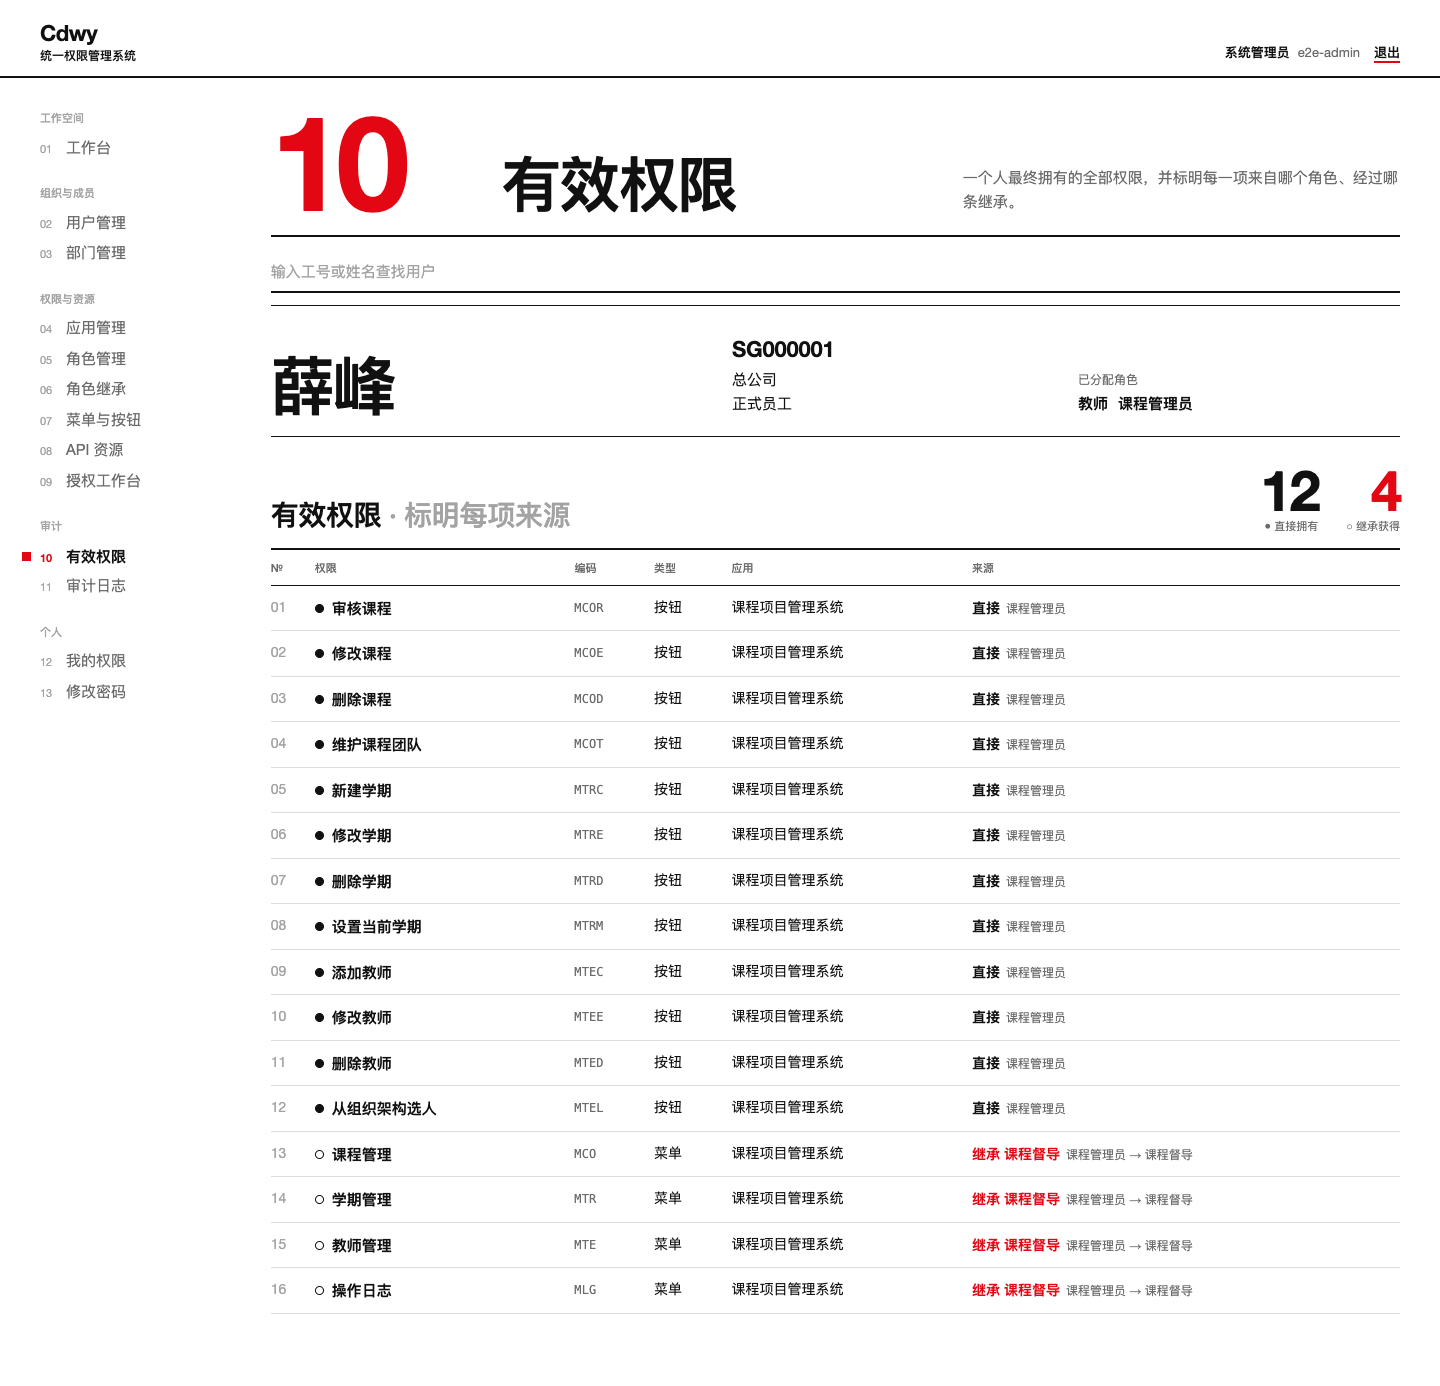
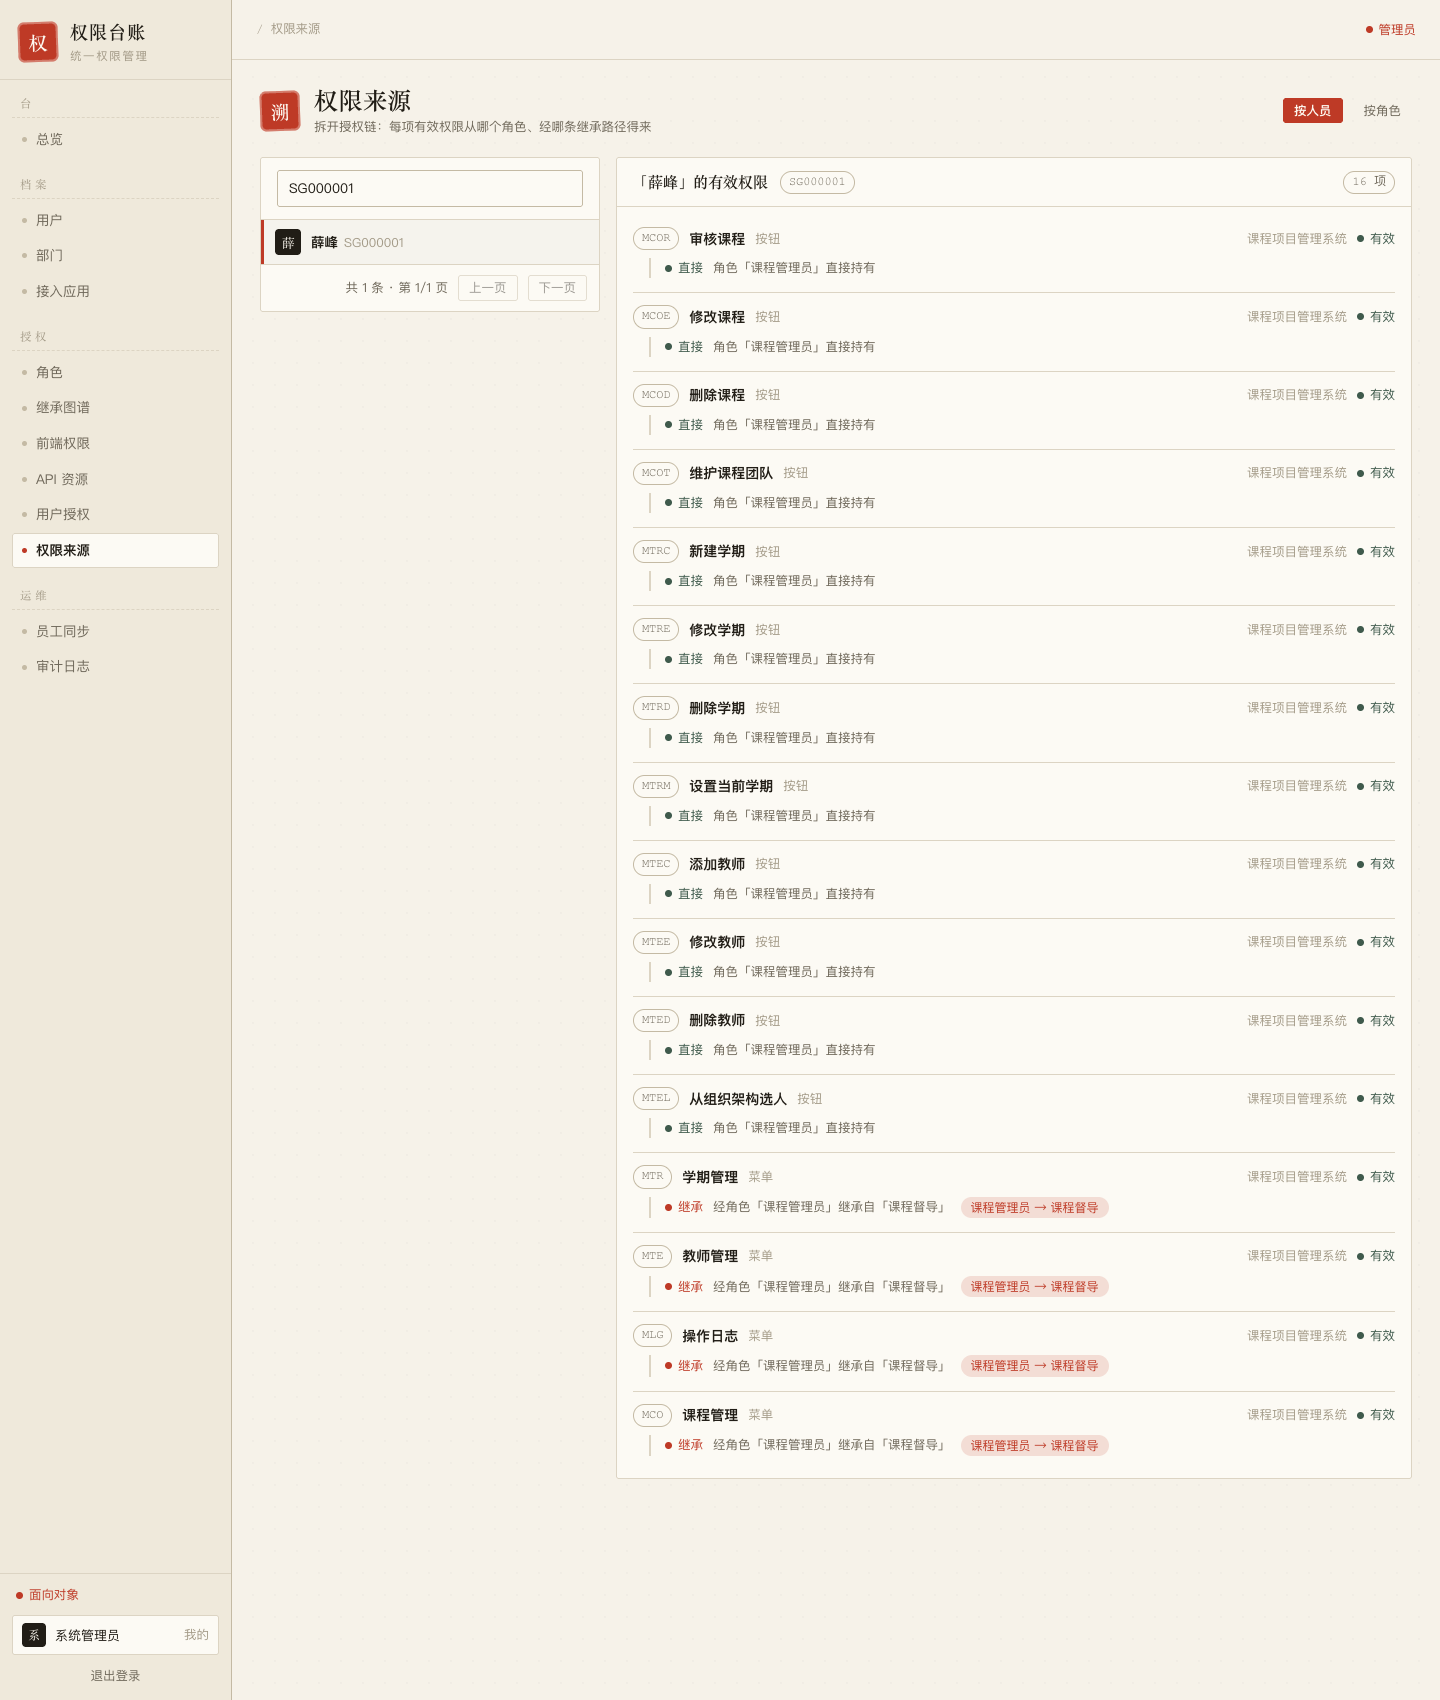
deploy: 权限系统前端镜像发布权限台账，首页进权限台账；文档与本机证据同步
- package-images.sh 依次构建权限台账与原管理控制台，构建上下文带上 static/access-registry
  （同组的 Dockerfile 已经要复制这个目录，原脚本没有打包它，镜像会构建失败）
- Nginx 首页跳到 /access-registry/，原管理控制台仍在 /ui/
- README、详细设计、需求—测试追踪、部署说明按权限台账更新；更正 README 中审计范围的说法
- 本机两种设计路线重跑：课程联调各 45/45，权限台账 8/8、原控制台 5/5 浏览器测试；
  后端 186 个测试通过，覆盖率不变

diff --git a/README.md b/README.md
@@ -14,7 +14,7 @@
 | 检查要求 | 本版落实 |
 |---|---|
 | 两个系统的权限都由权限系统管理 | 实现 Apifox「统一身份鉴权」的 8 个接口（`/api/apps/{应用编码}/auth/login`、`logout`、`me`、`permissions/{permission}`、`api-permissions/{operationId}`、`departments`、`departments/{departmentId}/users`、`users/{userId}`）及审计接口 `/auth/audit-logs`，与老师课程项目管理系统的统一身份契约一致；课程系统只需配置 `IDENTITY_BASE_URL=http://rbac-backend:18081/api/apps/course-project-management`。API 资源新增后端权限码（`TC`、`CV` 等），随角色及继承下发 |
-| 前后端部署到 Docker Swarm | 已部署：权限系统 http://120.46.213.158/ui/index.html （stack `cdwy`，[deploy/stack.yml](deploy/stack.yml)），课程系统 http://124.70.102.248/ （stack `course-project`，[deploy/course/stack.yml](deploy/course/stack.yml)，后端用老师发布的镜像，前端按老师 master 编译，未改老师代码）；老师员工信息表的一万名员工都是测试账号（总公司员工是教师，分公司员工是学生）；权限系统与课程前端的镜像在服务器上构建，密码用 docker secret，健康检查用 Actuator；[部署说明](docs/second-review/05-deployment.adoc)、[部署证据](docs/second-review/evidence/deployment/README.md) |
+| 前后端部署到 Docker Swarm | 已部署：权限系统 http://120.46.213.158/ （首页进权限台账，原管理控制台在 `/ui/`；stack `cdwy`，[deploy/stack.yml](deploy/stack.yml)），课程系统 http://124.70.102.248/ （stack `course-project`，[deploy/course/stack.yml](deploy/course/stack.yml)，后端用老师发布的镜像，前端按老师 master 编译，未改老师代码）；老师员工信息表的一万名员工都是测试账号（总公司员工是教师，分公司员工是学生）；权限系统与课程前端的镜像在服务器上构建，密码用 docker secret，健康检查用 Actuator；[部署说明](docs/second-review/05-deployment.adoc)、[部署证据](docs/second-review/evidence/deployment/README.md) |
 | 菜单切换产生 logback 日志 | 前端每个请求带 `X-Client-Menu`；`logback-spring.xml` + `RequestLoggingFilter`（请求号、菜单、操作人）+ `LayerLoggingAspect`（Controller / Service / DDD 应用服务 / 基础设施分层日志，令牌与密码打码） |
 | 需求与测试对应 | [需求规格](docs/second-review/01-requirements.adoc) FR-01~FR-38、NFR-01~NFR-12；[需求—测试追踪](docs/second-review/04-test-traceability.adoc)（由 `scripts/build-test-traceability.py` 按测试源码生成） |
 | 按课程代码规范整改 | DTO/VO 分包并以 `DTO`/`VO` 结尾，Controller 负责 DTO → Command、Result → VO 映射；优先 CloneFactory 0.0.2 拷贝；Lombok 去样板代码，禁用 `var`；全部类与公开方法写中文 Javadoc；列表分页统一 `page`/`pageSize`/`total`；格式校验在 API 层，业务异常带稳定错误码；测试连接真实 MySQL 并回滚、带需求编号、每个错误码与不存在的 id 都有契约测试。见[详细设计](docs/second-review/03-detailed-design.adoc)“代码规范”一节 |
@@ -27,7 +27,8 @@
 
 | 目标 | 入口 |
 |---|---|
-| 直接进入权限台账前端 | `http://127.0.0.1:18081/access-registry/index.html` |
+| 打开已部署的权限台账 | http://120.46.213.158/ |
+| 直接进入本机权限台账前端 | `http://127.0.0.1:18081/access-registry/index.html` |
 | 查看原管理控制台 | `http://127.0.0.1:18081/ui/index.html` |
 | 了解 Vue 前端构建 | [`frontend-access-registry/README.md`](frontend-access-registry/README.md) |
 | 了解 API 设计 | [`docs/first-review/api-design.md`](docs/first-review/api-design.md) |
@@ -43,7 +44,8 @@
 - RBAC1 角色继承，支持多级继承和多继承，阻止自继承与循环继承。
 - 权限来源查询，可以说明一项有效权限来自哪个角色或继承链。
 - 员工信息同步的 Excel 预览、校验、变化摘要和确认导入流程。
-- 审计日志查询，记录登录、授权、撤权、导入和关键管理操作。
+- 审计日志：记录角色继承的建立与解除，以及接入应用（课程系统）报上来的操作，按应用分开查看。
+- 权限台账本身也由统一授权管理：侧栏菜单与写操作按钮按本人在 `rbac` 应用中的授权显示；权限系统自身的内置应用、管理员角色、菜单按钮与管理接口不能停用或注销。
 - 同一套 HTTP API、数据库和 Vue 前端下的结构化与面向对象双后端实现。
 
 ## 前端入口
@@ -52,8 +54,10 @@
 
 | 页面 | 地址 | 用途 |
 |---|---|---|
-| 权限台账 Vue 前端 | `http://127.0.0.1:18081/access-registry/index.html` | 当前整合的现代化管理台，覆盖工作台、用户、部门、应用、角色、继承、权限、API 资源、授权和审计 |
+| 权限台账 Vue 前端 | `http://127.0.0.1:18081/access-registry/index.html` | 当前整合的现代化管理台，覆盖工作台、用户、部门、应用、角色、继承、权限、API 资源、授权、权限来源、员工同步和审计；菜单与写操作按本人授权显示 |
 | 原管理控制台 | `http://127.0.0.1:18081/ui/index.html` | 仓库原有的管理页面，用于兼容和对照 |
+
+服务器上的部署：http://120.46.213.158/ 进入权限台账，http://120.46.213.158/ui/index.html 是原管理控制台（见[部署说明](docs/second-review/05-deployment.adoc)）。
 
 下面的图片只用于说明视觉布局，不能替代运行中的页面：
 
@@ -176,7 +180,7 @@ mvn -B clean verify
 | 后端测试（真实 MySQL 8.4） | 186 个，0 失败、0 错误、0 跳过；两种设计路线运行同一组测试 |
 | 错误码与不存在的 id | 53 个业务错误码全部有契约测试；40 个按 id 操作的请求组合覆盖不存在的 id |
 | JaCoCo | 指令 93.6%、分支 84.0%、行 94.0%、方法 92.0%（含 CloneFactory 生成代码） |
-| 前端 | TypeScript 检查、ESLint、Prettier 与 Vite 生产构建通过；5 组浏览器测试两种模式各自通过 |
+| 前端 | 两个前端的 TypeScript 检查与 Vite 生产构建通过；权限台账 8 个浏览器测试、原管理控制台 5 组浏览器测试，两种设计路线各自通过（2026-11-22） |
 | 跨系统联调 | 与老师课程系统联调（2026-11-22 按老师的部署通知更新：后端用老师发布的镜像，前端按 master `990cea2` 编译，一万名员工都是测试账号），两种模式与公网部署各 45/45 项通过，13 张走查截图 |
 
 需求与测试的对应见[需求—测试追踪](docs/second-review/04-test-traceability.adoc)。完整 JaCoCo 报告在构建后生成到 `target/site/jacoco/index.html`。
@@ -190,13 +194,13 @@ mvn -B clean verify
 | 认证 | JWT、BCrypt |
 | 对象映射 | CloneFactory、Lombok |
 | 前端 | Vue 3、TypeScript、Vite、Vue Router |
-| 测试 | JUnit、Maven Surefire、JaCoCo |
+| 测试 | JUnit、Maven Surefire、JaCoCo；浏览器验收用 playwright-core 与 node:test |
 
 ## 仓库结构
 
 ```text
 frontend/                                  原管理控制台前端
-frontend-access-registry/                  整合后的 Vue 权限台前端源码
+frontend-access-registry/                  整合后的 Vue 权限台前端源码与浏览器测试
 src/main/java/                             Spring Boot 后端源码
 src/main/resources/static/ui/              原管理控制台静态资源
 src/main/resources/static/access-registry/ 权限台前端生产构建资源

diff --git a/docs/second-review/evidence/course-integration/README.md b/docs/second-review/evidence/course-integration/README.md
@@ -6,7 +6,7 @@
 
 1. `scripts/register-course-app.py`：登记应用、菜单与按钮、API 资源（含 operationId）、角色与继承；同步老师的员工信息表（一万人）；按老师的约定把一万名员工都启用为测试账号，四个演示工号另外分配课程督导、课程管理员角色。
 2. `scripts/verify-course-integration.py`：45 项接口验收，课程接口经课程前端的 `/api` 代理调用，与浏览器路径一致。
-3. `frontend/tests/course-walkthrough.cjs`：用 Chrome 实际操作课程前端和权限控制台，逐步截图。
+3. `frontend/tests/course-walkthrough.cjs`：用 Chrome 实际操作课程前端和权限台账，逐步截图。
 
 | 文件 | 内容 |
 |---|---|
@@ -14,7 +14,7 @@
 | `verify-structured.txt`、`verify-ddd.txt` | 两个系统都用结构化路线、都用 DDD 路线时的验收结果，各 45/45 |
 | `course-backend-tests-mysql.txt` | 老师课程后端 e9a6dff 自带的 495 个测试连 MySQL 的结果（2026-11-21） |
 | `01`–`10` | 课程前端：课程管理员的菜单、两级部门选人添加教师、课程日志、撤销与恢复菜单 |
-| `11`–`13` | 权限控制台：薛峰的有效权限及继承路径、两个应用分开的审计日志 |
+| `11`–`13` | 权限台账：按人员查看薛峰的有效权限及继承路径、两个应用分开的审计日志 |
 
 测试账号：员工信息表的一万名员工，总公司员工（SG000001～SG000190）从教师入口登录，分公司员工（SG000191～SG010000）从学生入口登录，统一使用测试密码。演示工号：SG000001 薛峰（课程管理员）、SG000002 严天信（课程督导）、SG000003 秦哲（教师）、SG000191 曾禄（学生）。角色继承为“课程管理员 → 课程督导 → 教师”。
 
